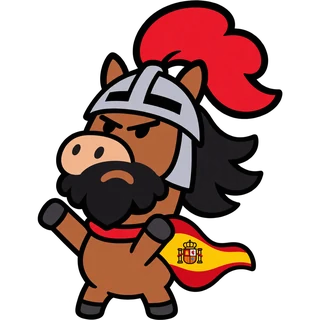
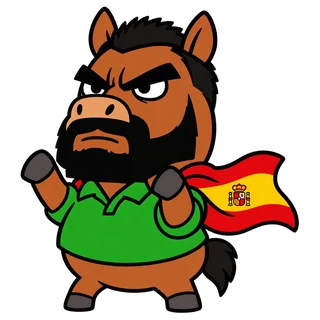
Nuevas imágenes de Rufi y Santi; Fariñas pasa a Núñez Fariñas
Claude-Session: https://claude.ai/code/session_01GFFGmXcYxj9spAgAJ4X5Tf

diff --git a/index.html b/index.html
@@ -433,7 +433,7 @@ const MOVES={
 const NOCOPY=new Set(['m360','pataleta','rescate','pana','cambio']);
 const POL=[
   {id:'sanchez',name:'Perro Sanxe',short:'Perro Sanxe',types:['res','fug'],base:[98,87,105,53,85,67],ability:'robustez',moves:['peugeot','dondedije','tezanazo','falcon'],entry:'«Aquí sigo.»',ko:'«Me tomo cinco días para pensarlo.»'},
-  {id:'feijoo',name:'Fariñas',short:'Fariñas',types:['gal'],base:[90,75,85,115,90,55],ability:'estatica',moves:['nisino','derogar','lluvia','barco'],entry:'«Depende de cómo se mire.»',ko:'«Técnicamente, he ganado.»'},
+  {id:'feijoo',name:'Núñez Fariñas',short:'Núñez Fariñas',types:['gal'],base:[90,75,85,115,90,55],ability:'estatica',moves:['nisino','derogar','lluvia','barco'],entry:'«Depende de cómo se mire.»',ko:'«Técnicamente, he ganado.»'},
   {id:'ayuso',name:'Isabel Libertad',short:'Isabel Libertad',types:['cas'],base:[73,76,75,81,100,100],ability:'marllamas',moves:['comunismo','fruta','cana','bocata'],entry:'«¡Libertad!»',ko:'«Me voy de cañas. Libremente.»'},
   {id:'almeida',name:'Carapolla',short:'Carapolla',types:['cas'],base:[86,68,72,109,66,106],ability:'competitivo',moves:['obras','m360','calderon','verbena'],entry:'«Partido a partido.»',ko:'«Partido a partido… y este lo hemos perdido.»'},
   {id:'abascal',name:'Santi Reconquista',short:'Santi Reconquista',types:['epi'],base:[100,125,100,55,85,35],ability:'aguante',moves:['caballo','publico','derechita','chiringuitos'],entry:'Llega al galope.',ko:'«No es una derrota: es una retirada estratégica a Covadonga.»'},
@@ -475,7 +475,7 @@ const SN={atk:'Ataque',def:'Defensa',spa:'Ataque Esp.',spd:'Defensa Esp.',spe:'V
 const ART={atk:'el',def:'la',spa:'el',spd:'la',spe:'la'};
 const STLBL={par:['EN BLANCO','#c99a1a'],brn:['QUEMADO','#d2492f'],slp:['SIESTA','#6c6577'],frz:['DE PIEDRA','#3e9fb3']};
 const LV=50;
-const IMG=id=>`img/${id}.webp`;
+const IMG=id=>`img/${id}.webp?v=2`;
 const monImg=m=>IMG(m.pana?'felipe82':m.p.id);
 const F82=['rosa','ave','votos','hijo'];
 let UNL={felipe:false};try{UNL.felipe=localStorage.getItem('polimon-legend-felipe')==='1';}catch(_){}
